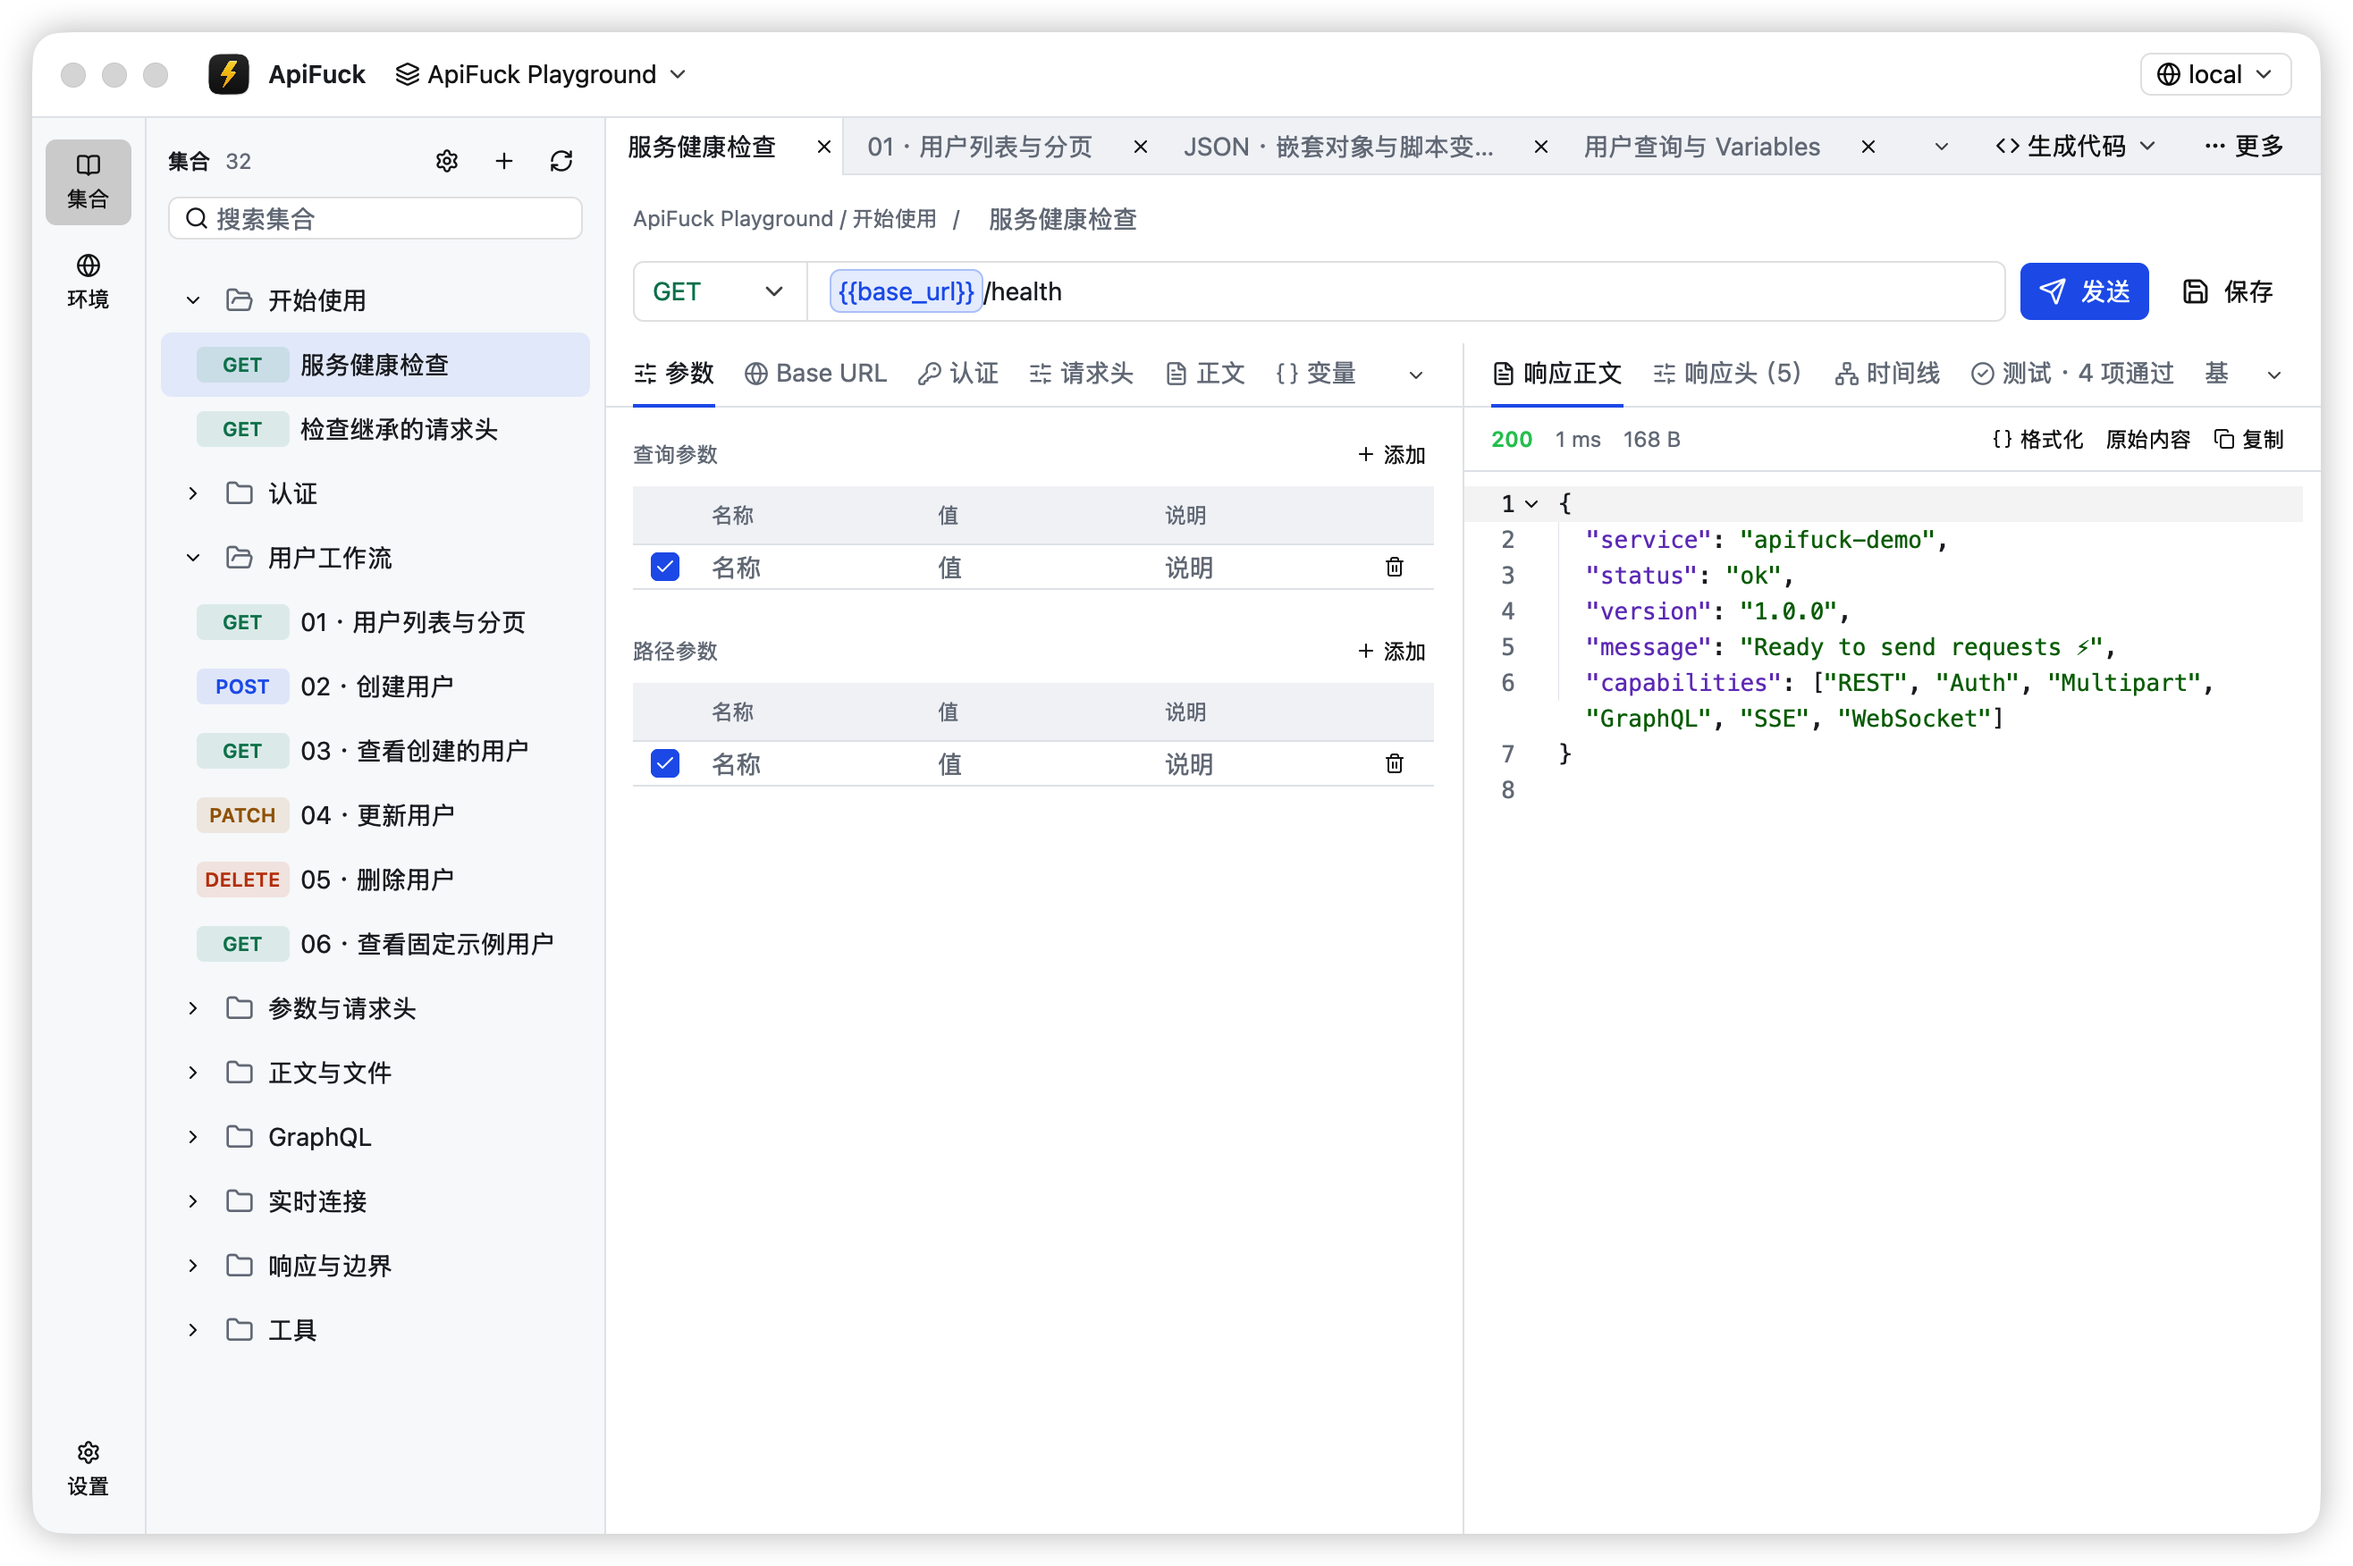
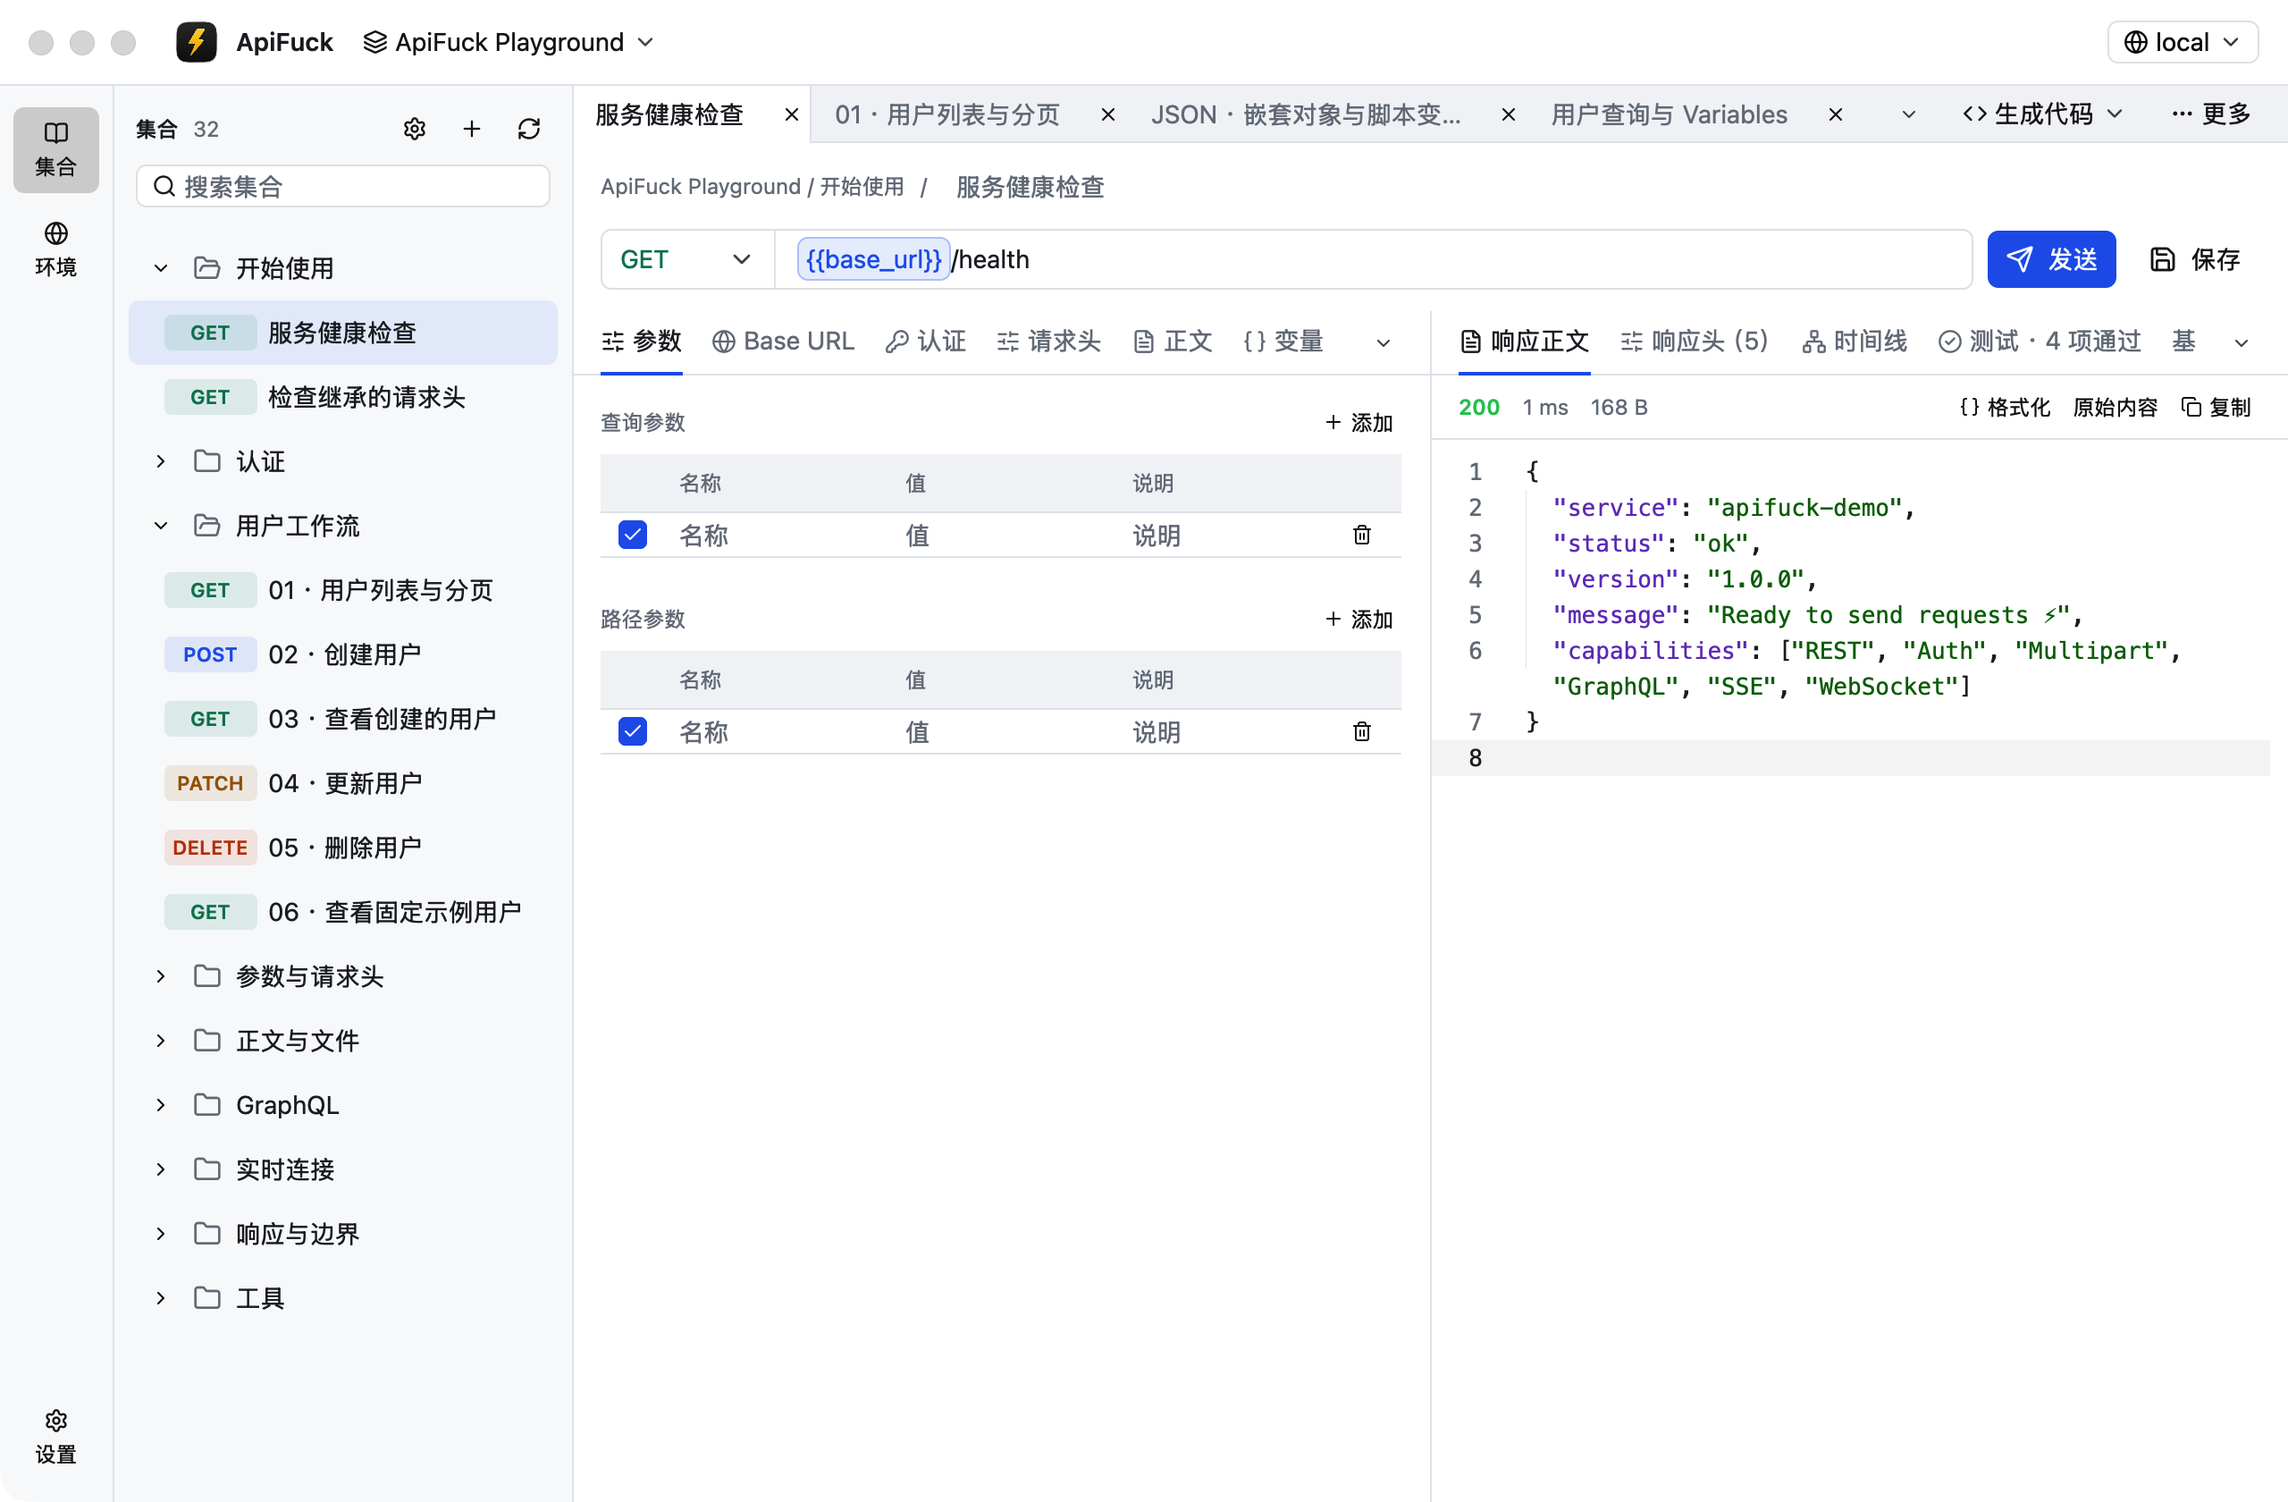
fix: update website to latest desktop screenshot

diff --git a/website/README.md b/website/README.md
@@ -2,7 +2,7 @@
 
 独立静态官网，参考 FastVibe Services 的蓝紫首屏、浮动毛玻璃导航和大幅产品预览。中文 `/`，英文 `/en/`，支持系统主题和手动主题切换。它与 Rust 桌面应用没有构建或运行依赖。
 
-首屏使用用户提供的真实桌面截图 `public/workbench-screenshot.png`（2632 × 1752），原图保持不变，在中英文和明暗主题下等比例完整显示，点击可查看原图。产品能力以根目录 README 与 `docs/execution.md` 为准，未宣传 CLI、MCP 或尚未实现的协议。
+首屏使用用户提供的真实桌面截图 `public/workbench-screenshot.png`（2560 × 1680），原图保持不变，在中英文和明暗主题下等比例完整显示，点击可查看原图。产品能力以根目录 README 与 `docs/execution.md` 为准，未宣传 CLI、MCP 或尚未实现的协议。
 
 ## 开发与验证
 
